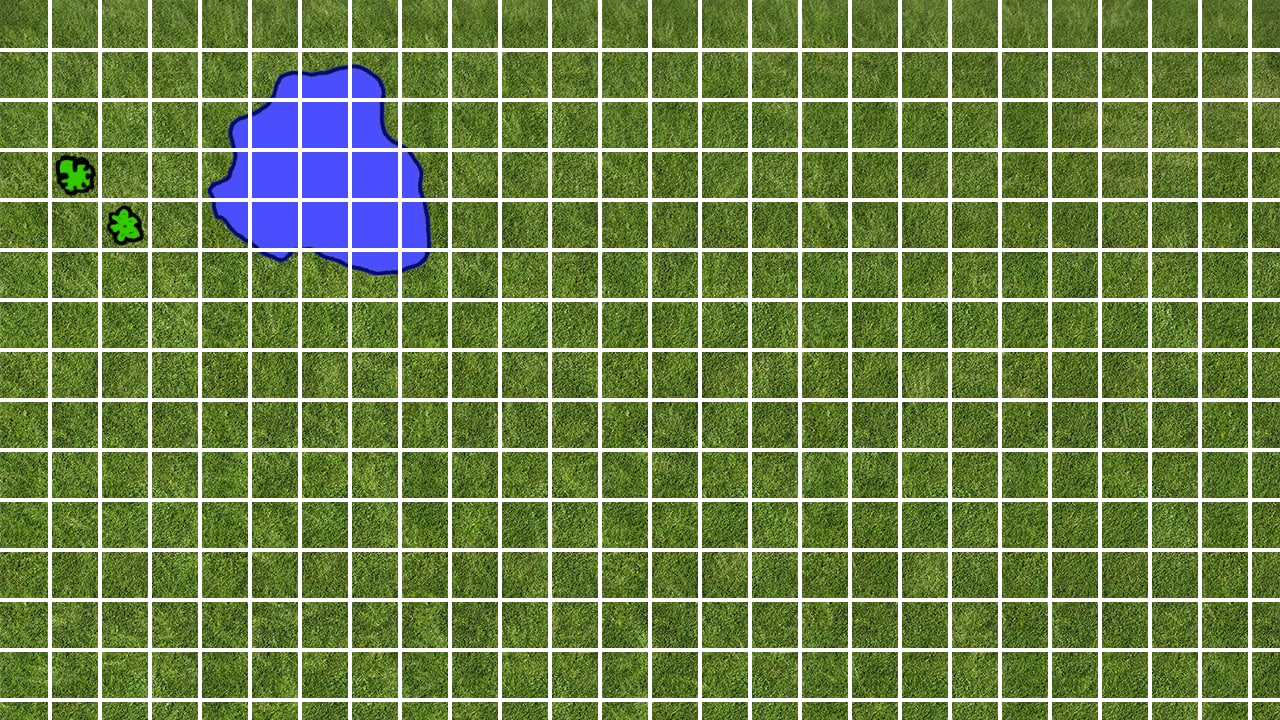
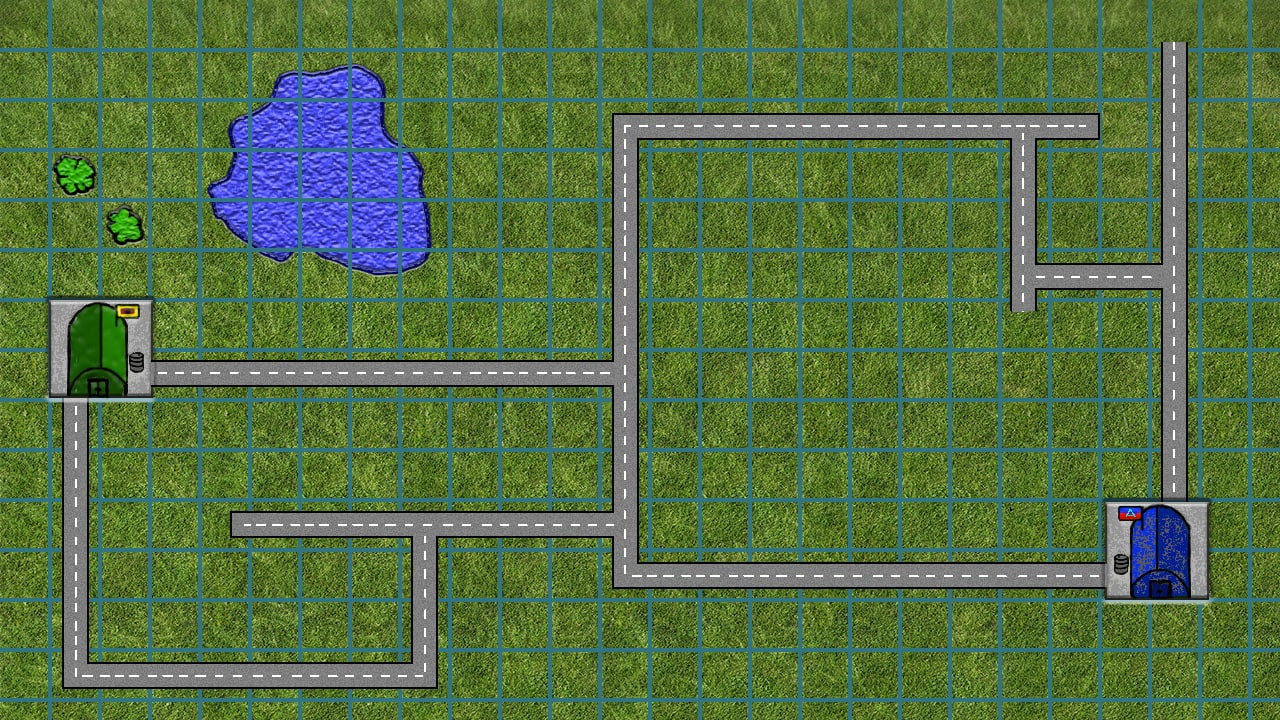
Add files via upload

diff --git a/main.py b/main.py
@@ -2,8 +2,11 @@ import pygame
 import time
 from win32api import GetSystemMetrics
 
-
+print(help(pygame))
 disable_points = [[250, 100], [300, 100], [250, 150], [300, 150], [350, 150], [250, 200], [300, 200], [350, 200]]
+base_1_coords = [[50, 300], [100, 300], [50, 350], [100, 350]]
+base_2_coords = [[1100, 500], [1150, 500], [1100, 550], [1150, 550]]
+
 
 class Game(object):
     def __init__(self):
@@ -14,12 +17,21 @@ class Game(object):
         self.SD = pygame.display.set_mode((self.user_width, self.user_height - 50))
         self.x = 1100
         self.y = 0
+        self.main_hero = pygame.image.load('main_hero.png').convert_alpha()
+        self.main_hero_2 = pygame.image.load('main_hero_2.png').convert_alpha()
+        self.main_hero_right = pygame.image.load('main_hero_right.png').convert_alpha()
+        self.main_hero_2_left = pygame.image.load('main_hero_2_left.png').convert_alpha()
 
         self.x2 = 1150
         self.y2 = 0
         self.mode = 1  #активная моделька, которую и будем перемещать
         self.turn_counter_1 = 0   # счетчик для того, чтобы считать ходы
         self.user_turn_2 = 0    # определение игрока, чей сейчас ход
+
+        self.way = 0  # оба смотрт налево (0 - налево, 1 - направо)
+        self.way_2 = 0
+
+        
 
 #-----------------------------------
 
@@ -85,7 +97,7 @@ class Game(object):
                 quit()
 
 
-            if mode == 1:
+            if mode == 1:    # ходит main_hero(белый)
                 if event.type == pygame.KEYDOWN:
                     if pygame.key.get_pressed():
                         if event.key == pygame.K_w and self.y > 0 and (not(self.y - 50 == self.y2 and self.x == self.x2)) and self.turn_counter_1 < 100 and [self.x, self.y - 50] not in disable_points:
@@ -97,17 +109,25 @@ class Game(object):
                             self.turn_counter_1 += 1
 
                         if event.key == pygame.K_a and self.x > 0 and (not(self.y == self.y2 and self.x - 50 == self.x2)) and self.turn_counter_1 < 100 and self.x != 0 and [self.x - 50, self.y] not in disable_points:
+                            self.way = 0   #для поворота налево
+                            self.draw()
                             self.moove_1_xb()
                             self.turn_counter_1 += 1
+                              
                             
                         if event.key == pygame.K_d and (not(self.y == self.y2 and self.x + 50 == self.x2)) and self.turn_counter_1 < 100 and self.x < self.user_width - 50 and [self.x + 50, self.y] not in disable_points:
+                            self.way = 1    # для поворота направо
+                            self.draw()
                             self.moove_1_xf()
                             self.turn_counter_1 += 1
+                            
+                            
+
 
                         if event.key == pygame.K_ESCAPE:
                             exit()
 
-            else:
+            else:   # Ходит main_hero_2(черный)
                 if event.type == pygame.KEYDOWN:
                     if pygame.key.get_pressed():
                         if event.key == pygame.K_w and self.y2 > 0 and (not(self.y == self.y2 - 50 and self.x == self.x2)) and self.turn_counter_1 < 100 and [self.x2, self.y2 - 50] not in disable_points:
@@ -118,13 +138,19 @@ class Game(object):
                             self.moove_2_yf()
                             self.turn_counter_1 += 1
                             
-                        if event.key == pygame.K_a and self.x2 > 0 and (not(self.y == self.y2 and self.x == self.x2 - 50)) and self.turn_counter_1 < 100 and self.y2 != 0 and [self.x2 - 50, self.y2] not in disable_points:
+                        if event.key == pygame.K_a and self.x2 > 0 and (not(self.y == self.y2 and self.x == self.x2 - 50)) and self.turn_counter_1 < 100 and [self.x2 - 50, self.y2] not in disable_points:
+                            self.way_2 = 0  # Для поворота налево
+                            self.draw()
                             self.moove_2_xb()
                             self.turn_counter_1 += 1
                             
+                            
                         if event.key == pygame.K_d and (not(self.y == self.y2 and self.x == self.x2 + 50)) and self.turn_counter_1 < 100 and self.x2 < self.user_width - 50 and [self.x2 + 50, self.y2] not in disable_points:
+                            self.way_2 = 1    # для поворота направо
+                            self.draw()
                             self.moove_2_xf()
                             self.turn_counter_1 += 1
+                            
 
                         if event.key == pygame.K_ESCAPE:
                             exit()
@@ -140,16 +166,19 @@ class Game(object):
             if event.type == pygame.KEYDOWN:
                 if pygame.key.get_pressed():
                     if event.key == pygame.K_e:
-                        if abs(self.x - self.x2) == 50 or abs(self.y - self.y2) == 50:
+                        if abs(self.x - self.x2) <= 50 and abs(self.y - self.y2) <= 50:
                             
                             self.second_window()
+                        elif [self.x, self.y] in base_1_coords or [self.x, self.y] in base_2_coords or [self.x2, self.y2] in base_1_coords or [self.x2, self.y2] in base_2_coords:
+
+                            Base().run()
 
 
     def draw(self):
         
         self.SD.blit(self.bg, (0, 0))
         
-        pygame.draw.rect(self.SD, (0, 255, 0), (self.x2, self.y2, 50, 50))
+        
 
 
         # line_x = 50
@@ -160,18 +189,50 @@ class Game(object):
         # for i in range(self.user_height // 50):
         #     pygame.draw.line(self.SD, (0, 0, 0), (0, line_y), (self.user_width, line_y))
         #     line_y += 50
-        if self.mode == 1:
-            pygame.draw.rect(self.SD, (255, 0, 0), (self.x, self.y, 50, 50), width = 5)
-            pygame.draw.rect(self.SD, (0, 0, 255), (self.x, self.y, 50, 50))
-            pygame.draw.rect(self.SD, (0, 255, 0), (self.x2, self.y2, 50, 50))
-        elif self.mode == 2:
+        if self.mode == 1 and self.way == 0 and self.way_2 == 0:   # если оба смотрят налево
+            self.SD.blit(self.main_hero, (self.x, self.y))
+            pygame.draw.rect(self.SD, (255, 0, 0), (self.x, self.y, 50, 50), width = 2)
+            self.SD.blit(self.main_hero_2_left, (self.x2, self.y2))
+
+        elif self.mode == 1 and self.way == 0 and self.way_2 == 1:   #если main_hero смотрит налево, а main_hero_2 направо
+            self.SD.blit(self.main_hero, (self.x, self.y))
+            pygame.draw.rect(self.SD, (255, 0, 0), (self.x, self.y, 50, 50), width = 2)
+            self.SD.blit(self.main_hero_2, (self.x2, self.y2))
+
+        elif self.mode == 1 and self.way == 1 and self.way_2 == 0:
+            self.SD.blit(self.main_hero_right, (self.x, self.y))
+            pygame.draw.rect(self.SD, (255, 0, 0), (self.x, self.y, 50, 50), width = 2)
+            self.SD.blit(self.main_hero_2_left, (self.x2, self.y2))
+
+        elif self.mode == 1 and self.way == 1 and self.way_2 == 1:
+            self.SD.blit(self.main_hero_right, (self.x, self.y))
+            pygame.draw.rect(self.SD, (255, 0, 0), (self.x, self.y, 50, 50), width = 2)
+            self.SD.blit(self.main_hero_2, (self.x2, self.y2))
+
+
+
+        elif self.mode == 2 and self.way_2 == 0 and self.way == 0:
             pygame.draw.rect(self.SD, (255, 0, 0), (self.x2, self.y2, 50, 50), width = 5)
-            pygame.draw.rect(self.SD, (0, 255, 0), (self.x2, self.y2, 50, 50))
-            pygame.draw.rect(self.SD, (0, 0, 255), (self.x, self.y, 50, 50))
+            self.SD.blit(self.main_hero_2_left, (self.x2, self.y2))
+            self.SD.blit(self.main_hero, (self.x, self.y))
+
+        elif self.mode == 2 and self.way_2 == 0 and self.way == 1:
+            pygame.draw.rect(self.SD, (255, 0, 0), (self.x2, self.y2, 50, 50), width = 5)
+            self.SD.blit(self.main_hero_2_left, (self.x2, self.y2))
+            self.SD.blit(self.main_hero_right, (self.x, self.y))
+
+        elif self.mode == 2 and self.way_2 == 1 and self.way == 0:
+            pygame.draw.rect(self.SD, (255, 0, 0), (self.x2, self.y2, 50, 50), width = 5)
+            self.SD.blit(self.main_hero_2, (self.x2, self.y2))
+            self.SD.blit(self.main_hero, (self.x, self.y))
+        elif self.mode == 2 and self.way_2 == 1 and self.way == 1:
+            pygame.draw.rect(self.SD, (255, 0, 0), (self.x2, self.y2, 50, 50), width = 5)
+            self.SD.blit(self.main_hero_2, (self.x2, self.y2))
+            self.SD.blit(self.main_hero_right, (self.x, self.y))
 
 
 
-        pygame.display.update()
+        pygame.display.flip()
 
     def run(self):
 
@@ -185,6 +246,7 @@ class Game_2(Game):
         super().__init__()
         self.point_circle_x = 0   # для отрисовки кругов
         self.point_circle_y = 0
+        self.fight_map = pygame.image.load("fight_map.png")
 
         self.battle_x = 0   # для основного игрока
         self.battle_y = 0
@@ -192,7 +254,7 @@ class Game_2(Game):
 
     def draw(self):
         super().__init__()
-        self.SD.fill((255, 255, 255))
+        self.SD.blit(self.fight_map, (0, 0))
 
         pygame.draw.ellipse(self.SD, (255, 0, 0), (self.battle_x * 25, self.battle_y * 25 + 4, 25, 20))
         pygame.draw.ellipse(self.SD, (255, 0, 0), (self.point_circle_x * 25, self.point_circle_y * 25 + 4, 25, 20), 2)
@@ -339,7 +401,38 @@ class Game_2(Game):
         while self.flag:
             self.process_event()
             self.draw()
-            
+           
+
+class Base(Game):
+    def __init__(self):
+        super().__init__()
+        self.flag = True
+
+
+    def process_event(self):
+        super().__init__()
+        for event in pygame.event.get():
+            if event.type == pygame.QUIT:
+                pygame.quit()
+                quit()
+
+            if event.type == pygame.KEYDOWN:
+                if pygame.key.get_pressed():
+                    if event.key == pygame.K_ESCAPE:
+                        self.flag = False
+
+    def draw(self):
+        super().__init__()
+        self.SD.fill((255, 255, 255))
+        pygame.display.update()
+
+    def run(self):
+        super().__init__()
+        self.flag = True
+        while self.flag:
+            self.process_event()
+            self.draw()
+
 
 
 def main():
